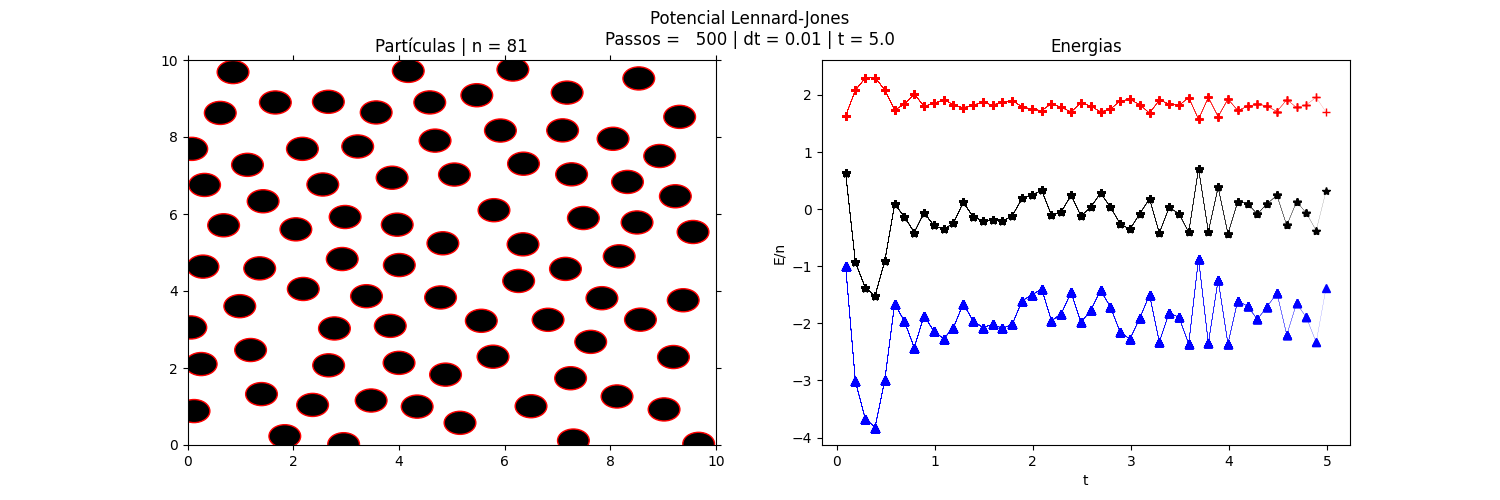
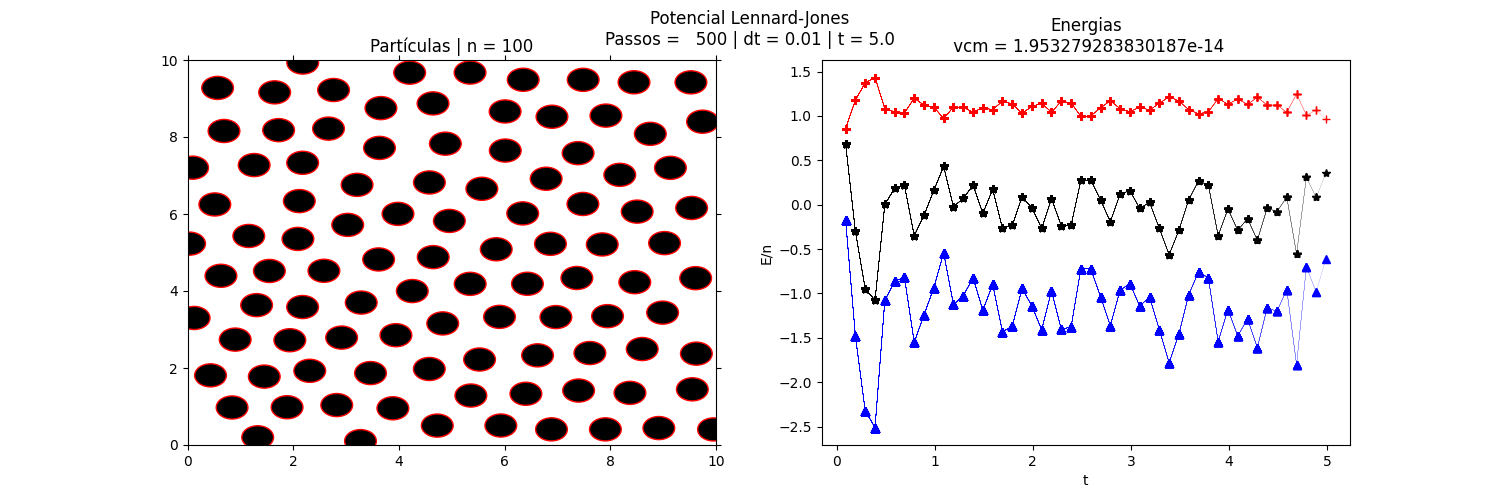
Atualização

diff --git a/MetCompC/aula9/lj_trunc.py b/MetCompC/aula9/lj_trunc.py
@@ -4,7 +4,7 @@ from random import uniform
 from scipy.stats import maxwell
 import time
 
-np.random.seed(123486789)
+np.random.seed(123786789)
 
 
 def immin(x1, y1, x2, y2, l):
@@ -40,8 +40,39 @@ class Particle:
         self.vel = v
         self.forc = [0, 0]
         self.pot = 0
+        self.bxy = [0, 0]
         self.todas.append(self)
-    
+
+    @classmethod
+    def tempcalc(cls):
+        '''
+        Algoritmo 6, pg.70, Frenkel
+        '''
+
+    @classmethod
+    def velnorm(cls, temp):
+        pt = Particle.todas
+        n = len(pt)
+        sumvx = 0
+        sumvy = 0
+        sumvx2 = 0
+        sumvy2 = 0
+        for p in pt:
+            sumvx += p.vel[0]
+            sumvy += p.vel[1]
+            sumvx2 += p.vel[0]**2
+            sumvy2 += p.vel[1]**2
+        sumvx /= n
+        sumvy /= n
+        sumvx2 /= n
+        sumvy2 /= n
+
+        fatorx = np.sqrt(2 * temp/sumvx2)
+        fatory = np.sqrt(2 * temp/sumvy2)
+        for p in pt:
+            p.vel[0] = (p.vel[0] - sumvx) * fatorx
+            p.vel[1] = (p.vel[1] - sumvy) * fatory
+
     @classmethod
     def mov_pbc(cls, dt, l):
         # Atualização das posições        
@@ -50,14 +81,18 @@ class Particle:
             p.pos[1] += p.vel[1] * dt
             # Problema de bordas em x
             if p.pos[0] >= l:
+                p.bxy[0] += 1
                 p.pos[0] = p.pos[0] - l
             if p.pos[0] <= 0:
+                p.bxy[0] += -1
                 dx = abs(p.pos[0])
                 p.pos[0] = l - dx
             # Problema de bordas em y
             if p.pos[1] >= l:
+                p.bxy[1] += 1
                 p.pos[1] = p.pos[1] - l
             if p.pos[1] <= 0:
+                p.bxy[1] += -1
                 dy = abs(p.pos[1])
                 p.pos[1] = l - dy
         
@@ -72,8 +107,9 @@ class Particle:
     @classmethod
     def forcas(cls, eps, sig, l):
         rc = 2.5
-        Aij = lambda r: 48 * (eps / (sig ** 2)) * (((sig / r) ** 14) - (0.5 * ((sig / r) ** 8)))
-        Uij = lambda r: 4 * eps * (((sig/r)**12) - ((sig/r)**6))
+        aij = lambda r: 48 * (eps / (sig ** 2)) * (((sig / r) ** 14) - (0.5 * ((sig / r) ** 8)))
+        uij = lambda r: 4 * eps * (((sig/r)**12) - ((sig/r)**6))
+        ecut = 4 * (1/(rc**12) - 1/(rc**6))
         p = Particle.todas
         n = len(p)
         for i in p:
@@ -83,11 +119,12 @@ class Particle:
         for pi in range(n):
             for pj in range(pi + 1, n):
                 dx, dy = immin(p[pi].pos[0], p[pi].pos[1], p[pj].pos[0], p[pj].pos[1], l)
-                if np.hypot(dx, dy) <= rc:
+                r = np.hypot(dx, dy)
+                if r <= rc:
                     # Cálculo das forças
-                    fxi = Aij(np.hypot(dx, dy)) * dx
+                    fxi = aij(r) * dx
                     fxj = -fxi
-                    fyi = Aij(np.hypot(dx, dy)) * dy
+                    fyi = aij(r) * dy
                     fyj = -fyi
 
                     # Atribuição das forças
@@ -97,15 +134,14 @@ class Particle:
                     p[pj].forc[1] += fyj
 
                     # Cálculo dos potenciais
-                    poti = Uij(np.hypot(dx, dy))
-                    potj = poti
+                    pot = uij(r) - ecut
 
                     # Atribuição dos potenciais
-                    p[pi].pot += poti
-                    p[pj].pot += potj
+                    p[pi].pot += pot
+                    p[pj].pot += pot
 
                     # Cálculo da pressão
-                    Particle.pressao += np.hypot(fxi, fyi) * np.hypot(dx, dy)
+                    Particle.pressao += np.hypot(fxi, fyi) * r
 
     @classmethod
     def calcpressao(cls, T, num, l):
@@ -113,25 +149,28 @@ class Particle:
         kb = 1
         v = l**2
         rho = (m * len(Particle.todas))/v
-        return rho * kb * T + ((Particle.pressao/num)/v)
+        return rho * kb * T + ((Particle.pressao/num)/(2*v))
 
     @classmethod
-    def energias(cls, cond='Particula'):
+    def energias(cls):
         k = 0
         pot = 0
+        tot = 0
+        sumvx = 0
+        sumvy = 0
+
         n = len(Particle.todas)
-        if cond == 'Sistema':
-            for p in Particle.todas:
-                k += (np.hypot(p.vel[0], p.vel[1]) ** 2) / 2
-                pot += p.pot
-            tot = k + pot
-            return k, pot, tot
-        else:
-            for p in Particle.todas:
-                k += (np.hypot(p.vel[0], p.vel[1]) ** 2) / 2
-                pot += p.pot
-            tot = k + pot
-            return k / n, pot / n, tot / n
+        for p in Particle.todas:
+            vx = p.vel[0]
+            vy = p.vel[1]
+            ki = (np.hypot(vx, vy) ** 2) * 0.5
+            pi = p.pot
+            k += ki
+            pot += pi
+            tot += ki + pi
+            sumvx += vx
+            sumvy += vy
+        return k / n, pot / n, tot / n, np.hypot(sumvx, sumvy)
 
     @classmethod
     def rdf(cls, l, switch=0, ngr=0, g=(), size=2):
@@ -161,6 +200,26 @@ class Particle:
                 npar = np.pi * vb * rho
                 g[i] /= ngr * n * npar
             return g
+
+    @classmethod
+    def msd(cls, l, r0s, switch=0):
+        pt = Particle.todas
+        n = len(pt)
+        if switch == 0:
+            drs = 0
+            r0s = []
+            switch = 1
+            for p in pt:
+                r0s.append(p.pos)
+            return r0s, switch, drs
+        if switch == 1:
+            drs = []
+            for i in range(n):
+                dx = (pt[i].pos[0] + (l * pt[i].bxy[0])) - r0s[i][0]
+                dy = (pt[i].pos[1] + (l * pt[i].bxy[1])) - r0s[i][1]
+                drs.append(dx**2 + dy**2)
+            drs = sum(drs)/n
+            return r0s, switch, drs
 
     @classmethod
     def plot(cls, ax):
@@ -218,9 +277,9 @@ def dinmol(l, n, r, di, eps, sig, T, tf, dt, ci='Random'):
                 particulas.append(Particle(r, [xx[x], yy[y]],
                                            [maxwell.rvs(size=1, scale=a)[0] * (1 - (2 * np.random.randint(2))),
                                             maxwell.rvs(size=1, scale=a)[0] * (1 - (2 * np.random.randint(2)))]))
+        Particle.velnorm(T)
 
     if ci == 'Triangulo':
-        ''' Como que centraliza??? '''
         i = -1
         aresta = (2 * r * n) + ((n - 1) * di)
         xx = np.arange((l - aresta)/2, (l + aresta)/2, 2 * r + di)
@@ -232,6 +291,7 @@ def dinmol(l, n, r, di, eps, sig, T, tf, dt, ci='Random'):
                                             maxwell.rvs(size=1, scale=a)[0] * (1 - (2 * np.random.randint(2)))]))
             i *= -1
             xx = np.arange((l - aresta)/2 + ((1 + i)/2) * (r + di/2), (l + aresta)/2, 2 * r + di)
+        Particle.velnorm(T)
 
     # Integração
     fig, (ax1, ax2) = plt.subplots(1, 2, figsize=(15, 5))
@@ -245,10 +305,16 @@ def dinmol(l, n, r, di, eps, sig, T, tf, dt, ci='Random'):
         p.vel[1] += p.forc[1] * dt/2
 
     # Resto dos passos
-    c = 0
-    k, u, tot, tempo = [], [], [], []
+    # Inicialização de variáveis de medida e auxiliares
     ngr, g = Particle.rdf(l, switch=0, size=10)
-    for t in np.arange(0, tf, dt):
+    k, u, tot, tempo, c = [], [], [], [], 0
+    # MSD
+    s = 3
+    cmsd = 0
+    teq = 0.75
+    r0s, switch, tmax = [], 0, tf/s
+    drs = list([] for i in range(s))
+    for t in np.arange(0, tf+dt, dt):
         c += 1
         # Dinâmica
         Particle.mov_pbc(dt, l)
@@ -257,20 +323,28 @@ def dinmol(l, n, r, di, eps, sig, T, tf, dt, ci='Random'):
         ax1.set_ylim(0, l)
         ax1.set_title(f'Partículas | n = {len(particulas)}')
 
+        # MSD
+        if (cmsd * tmax) + (tmax * teq) <= t <= (cmsd * tmax) + tmax:
+            r0s, switch, drsi = Particle.msd(l, r0s, switch=switch)
+            drs[cmsd].append(drsi)
+        if t > (cmsd * tmax) + tmax:
+            switch = 0
+            cmsd += 1
+
         # RDF
         if t > tf/2:
             ngr, g = Particle.rdf(l, switch=1, ngr=ngr, g=g, size=10)
 
         # Energias
         if c % 10 == 0:
-            cin, pot, to = Particle.energias(cond='Particulas')
+            cin, pot, to, vcm = Particle.energias()
             k.append(cin)
             u.append(pot)
             tot.append(to)
             tempo.append(t)
             # Cinetica
             ax2.plot(tempo, k,  marker='+', color='r', linewidth=.1)
-            ax2.set_title('Energias')
+            ax2.set_title(f'Energias\n vcm = {vcm}')
             ax2.set(xlabel='t', ylabel='E/n')
 
             # Potencial
@@ -285,15 +359,32 @@ def dinmol(l, n, r, di, eps, sig, T, tf, dt, ci='Random'):
         plt.pause(0.0001)
         ax1.cla()
 
+    # Plot da RDF
     g = Particle.rdf(l, switch=2, ngr=ngr, g=g, size=10)
     rs = np.linspace(0, l/2, len(g))
-    plt.figure(4)
+    figura = plt.figure(4, figsize=(15, 5))
+    plt.subplot(121)
     plt.plot(rs, g)
     plt.title(f'Função de Distribuição Radial\nn = {n**2} | Ti = {T}')
     plt.xlabel('r')
     plt.ylabel('g(r)')
     plt.grid()
-    plt.savefig('RDF.png')
+
+    # Plot do MSD
+    msd = np.asarray(drs[0])
+    for i in range(1, s):
+        msd += np.asarray(drs[i])
+    msd = msd/s
+    tm = np.arange(teq * tmax, tmax, dt)
+    plt.subplot(122)
+    plt.plot(tm, msd)
+    plt.xlabel('t (s)')
+    plt.ylabel('MSD (m^2)')
+    plt.xscale('log')
+    plt.yscale('log')
+    plt.title(f'Desvio quadrático médio\n tf = {tf} | dt = {dt}')
+    plt.grid()
+    plt.savefig('RDF_MSD.png')
 
     pressao = Particle.calcpressao(T, c, l)
     end = time.time()
@@ -312,8 +403,8 @@ di = .4
 eps = 1
 sig = 1
 T = .5
-tf = 10
-dt = .005
+tf = 5
+dt = .01
 ci = 'Triangulo'
 dinmol(l, n, r, di, eps, sig, T, tf, dt, ci)
 
